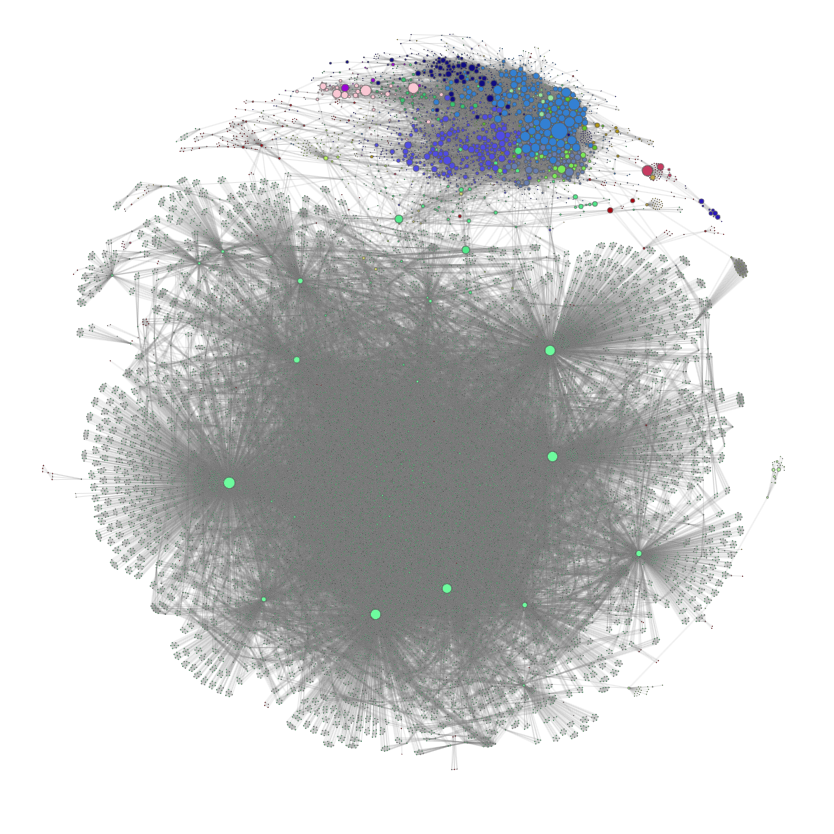
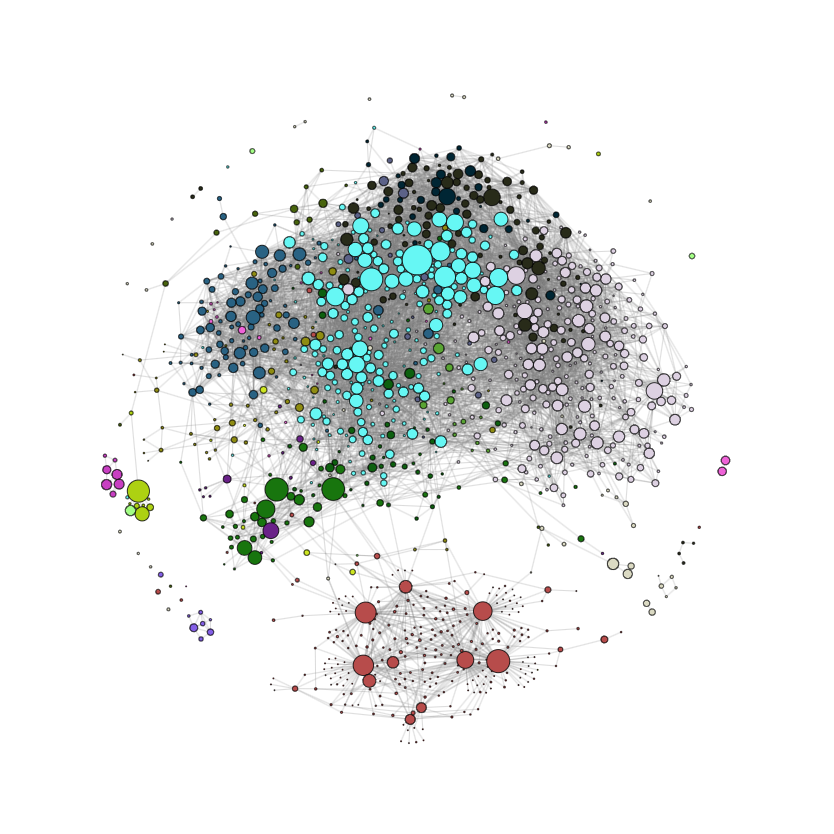
deploy: 3cf20601b049365d103e9c229e1bacfb3c7ee614

diff --git a/network-analysis/index.html b/network-analysis/index.html
@@ -96,19 +96,17 @@
           @apply mx-4;
         }
       }
-    </style></head><body><nav id=header class="fixed w-full z-10 top-0"><div id=progress class="h-1 z-20 top-0" style="background:linear-gradient(to right,#4dc0b5 var(--scroll),transparent 0)"></div><div class="w-full md:max-w-4xl mx-auto flex flex-wrap items-center justify-between mt-0 py-3"><div class=pl-4><a class="text-gray-900 text-base no-underline hover:no-underline font-extrabold text-xl" href=https://rsm-git.github.io>Community detection and analysis of American news agencies</a></div><div class="block lg:hidden pr-4"><button id=nav-toggle class="flex items-center px-3 py-2 border rounded text-gray-500 border-gray-600 hover:text-gray-900 hover:border-green-500 appearance-none focus:outline-none"><svg class="fill-current h-3 w-3" viewBox="0 0 20 20" xmlns="http://www.w3.org/2000/svg"><title>Menu</title><path d="M0 3h20v2H0V3zm0 6h20v2H0V9zm0 6h20v2H0v-2z"/></svg></button></div><div class="w-full flex-grow lg:flex lg:items-center lg:w-auto hidden lg:block mt-2 lg:mt-0 bg-gray-100 md:bg-transparent z-20" id=nav-content><ul class="list-reset lg:flex justify-end flex-1 items-center list-none px-0"><li><a class="inline-block py-2 px-4 text-gray-900 no-underline" href=../data-description>Data</a></li><li><a class="inline-block py-2 px-4 text-gray-900 no-underline" href=../network-analysis>Network</a></li><li><a class="inline-block py-2 px-4 text-gray-900 no-underline" href=../text-analysis>Text</a></li></ul></div></div></nav><div class="container w-full md:max-w-3xl mx-auto pt-20"><div class="w-full px-4 md:px-6 text-xl text-gray-800 leading-normal" style=font-family:Georgia,serif><div class=font-sans><h1 class="font-bold font-sans break-normal text-gray-900 pt-6 pb-2 text-3xl md:text-4xl">Network analysis</h1></div><p>We construct the network based on the co-authorship of articles. We define two authors as co-authors if they have
-written at least one article together. We then construct a network where each node represents an author and each edge
-represents a co-authorship between two authors. The network is undirected and unweighted. The nodes are scaled based on
-the number of articles the author has written. A network is created for each publication.</p><p>In the image below the full Reuters graph can be seen.</p><p><img src=../images/reuters0.png alt></p><p>As can be seen, the largest connected component of the graph is surrounded by a large number of small components. We
-chose to focus on the largest component as there are not many connections to investigate in the smaller components.
-Where the nodes are colored based on the author&rsquo;s most publicised section in the dataset.</p><p><img src=../images/reuters1.png alt></p><p>In the following image the Reuters graph is shown with the nodes colored based on the Louvain community detection
-algorithm.</p><p><img src=../images/reuters2.png alt></p><p>The New York Times graph is shown below, we see that there is a very large blob in the center of the graph,
-containing a few big authors and majorly authors with a small number of articles written.
-Most if not all of these authors belong to the &ldquo;Movies&rdquo; section of the newspaper, and are likely to be actors,
-actresses, directors, etc. such as John Cena, Jake Gyllenhaal, etc.</p><p><img src=../images/nyt0.png alt></p><p>Akin to the Reuters graph, there were a lot of small components surrounding the largest component. And we once again
-chose to focus on the largest component.
-With the nodes being colored based on the author&rsquo;s most publicised section in the dataset.</p><p><img src=../images/nyt1.png alt></p><p>And once again the graph is shown with the nodes colored based on the Louvain community detection algorithm.</p><p><img src=../images/nyt2.png alt></p><p>For both of the graphs we perform randomization experiments using the double edge swap algorithm and computing the
-modularity of the randomized graphs using the section partitioning of the graph.</p><h3 id=reuters-randomization-experiment>Reuters randomization experiment</h3><p><img src=../images/reuters_mod.png alt></p><h3 id=the-new-york-times-randomization-experiment>The New York Times randomization experiment</h3><p><img src=../images/nyt_mod.png alt></p><table><thead><tr><th></th><th>Reuters</th><th>The New York Times</th></tr></thead><tbody><tr><td>Section modularity</td><td>0.246</td><td>0.239</td></tr><tr><td>Louvain modularity</td><td>0.547</td><td>0.701</td></tr><tr><td>Randomization modularity</td><td>$$X\sim\mathcal{N}(0.016, 0.003)$$</td><td>$$X\sim\mathcal{N}(0.030, 0.001)$$</td></tr></tbody></table><p>From the randomization experiments we can see that although the section partitioning is quite a bit lower than the modularity than the partitioning
+    </style></head><body><nav id=header class="fixed w-full z-10 top-0"><div id=progress class="h-1 z-20 top-0" style="background:linear-gradient(to right,#4dc0b5 var(--scroll),transparent 0)"></div><div class="w-full md:max-w-4xl mx-auto flex flex-wrap items-center justify-between mt-0 py-3"><div class=pl-4><a class="text-gray-900 text-base no-underline hover:no-underline font-extrabold text-xl" href=https://rsm-git.github.io>Community detection and analysis of American news agencies</a></div><div class="block lg:hidden pr-4"><button id=nav-toggle class="flex items-center px-3 py-2 border rounded text-gray-500 border-gray-600 hover:text-gray-900 hover:border-green-500 appearance-none focus:outline-none"><svg class="fill-current h-3 w-3" viewBox="0 0 20 20" xmlns="http://www.w3.org/2000/svg"><title>Menu</title><path d="M0 3h20v2H0V3zm0 6h20v2H0V9zm0 6h20v2H0v-2z"/></svg></button></div><div class="w-full flex-grow lg:flex lg:items-center lg:w-auto hidden lg:block mt-2 lg:mt-0 bg-gray-100 md:bg-transparent z-20" id=nav-content><ul class="list-reset lg:flex justify-end flex-1 items-center list-none px-0"><li><a class="inline-block py-2 px-4 text-gray-900 no-underline" href=../data-description>Data</a></li><li><a class="inline-block py-2 px-4 text-gray-900 no-underline" href=../network-analysis>Network</a></li><li><a class="inline-block py-2 px-4 text-gray-900 no-underline" href=../text-analysis>Text</a></li></ul></div></div></nav><div class="container w-full md:max-w-3xl mx-auto pt-20"><div class="w-full px-4 md:px-6 text-xl text-gray-800 leading-normal" style=font-family:Georgia,serif><div class=font-sans><h1 class="font-bold font-sans break-normal text-gray-900 pt-6 pb-2 text-3xl md:text-4xl">Network analysis</h1></div><p>We construct the network based on the co-authorship of articles, to examine the collaborations of the news agencies.
+We construct a graph where each node represents an author and each edge represents a co-authorship between two authors.
+The network is undirected and unweighted. The size of the nodes are scaled based on the number of articles the author has written.
+We create a graph for both Reuters and The New York Times.</p><p>In the image below the full New York Times graph can be seen.</p><p><img src=../images/nyt0.png alt></p><p>As can be seen there is a large blob in the center of the graph, containing a few authors with a larger number of articles,
+and a lot of authors with a very small number of articles written, all belonging to the Movies section of the newspaper.
+Upon further inspection we found that a majority of these &ldquo;authors&rdquo; were actually actors, actresses, or other celebrities
+such as John Cena, Jake Gyllenhaal, Margot Robbie, etc. All of which had a low number of articles, where they were listed
+as authors, likely due to the fact that they were the subject of the article or were interviewed for the article. As such we
+chose to remove all nodes with less than 5 articles written, and the corresponding articles that would result in having a
+single author or no author are also removed.</p><p>In the figures below we see the degree distribution of the largest connected component of New York Times graph before and
+after removing the nodes with less than 5 articles written.</p><table><thead><tr><th style=text-align:center>Before</th><th style=text-align:center>After</th></tr></thead><tbody><tr><td style=text-align:center><img src=../images/nyt_degree_before.png alt></td><td style=text-align:center><img src=../images/nyt_degree_after.png alt></td></tr></tbody></table><p>Additionally, there are also some network statistics for the graph before and after removing these nodes.</p><table><thead><tr><th style=text-align:center>Stat</th><th style=text-align:center>Before</th><th style=text-align:center>After</th></tr></thead><tbody><tr><td style=text-align:center>#Nodes</td><td style=text-align:center>15,556</td><td style=text-align:center>1,234</td></tr><tr><td style=text-align:center>#Edges</td><td style=text-align:center>79,857</td><td style=text-align:center>7,342</td></tr><tr><td style=text-align:center>Avg. degree</td><td style=text-align:center>10.26</td><td style=text-align:center>11.90</td></tr><tr><td style=text-align:center>Median degree</td><td style=text-align:center>7</td><td style=text-align:center>5</td></tr><tr><td style=text-align:center>Avg. clustering coefficient</td><td style=text-align:center>0.792</td><td style=text-align:center>0.184</td></tr></tbody></table><p>The resulting graph of removing the nodes corresponding to authors with 5 or fewer articles written can be seen below.</p><p><img src=../images/nyt1.png alt></p><h3 id=reuters-randomization-experiment>Reuters randomization experiment</h3><p><img src=../images/reuters_mod.png alt></p><h3 id=the-new-york-times-randomization-experiment>The New York Times randomization experiment</h3><p><img src=../images/nyt_mod.png alt></p><table><thead><tr><th></th><th>Reuters</th><th>The New York Times</th></tr></thead><tbody><tr><td>Section modularity</td><td>0.246</td><td>0.239</td></tr><tr><td>Louvain modularity</td><td>0.547</td><td>0.701</td></tr><tr><td>Randomization modularity</td><td>$$X\sim\mathcal{N}(0.016, 0.003)$$</td><td>$$X\sim\mathcal{N}(0.030, 0.001)$$</td></tr></tbody></table><p>From the randomization experiments we can see that although the section partitioning is quite a bit lower than the modularity than the partitioning
 obtained by using the Louvain algorithm, but it is still significantly better than randomly partitioning the graph, which is what we would expect.</p><p>It is quite likely that the modularity of the Louvain partitioning of the New York Times graph is so high because of the
 large blob of nodes in the center of the graph, likely being assigned the same community by the algorithm.
 This is likely due to the fact that the blob is so densely connected that it is very hard to break it up into
